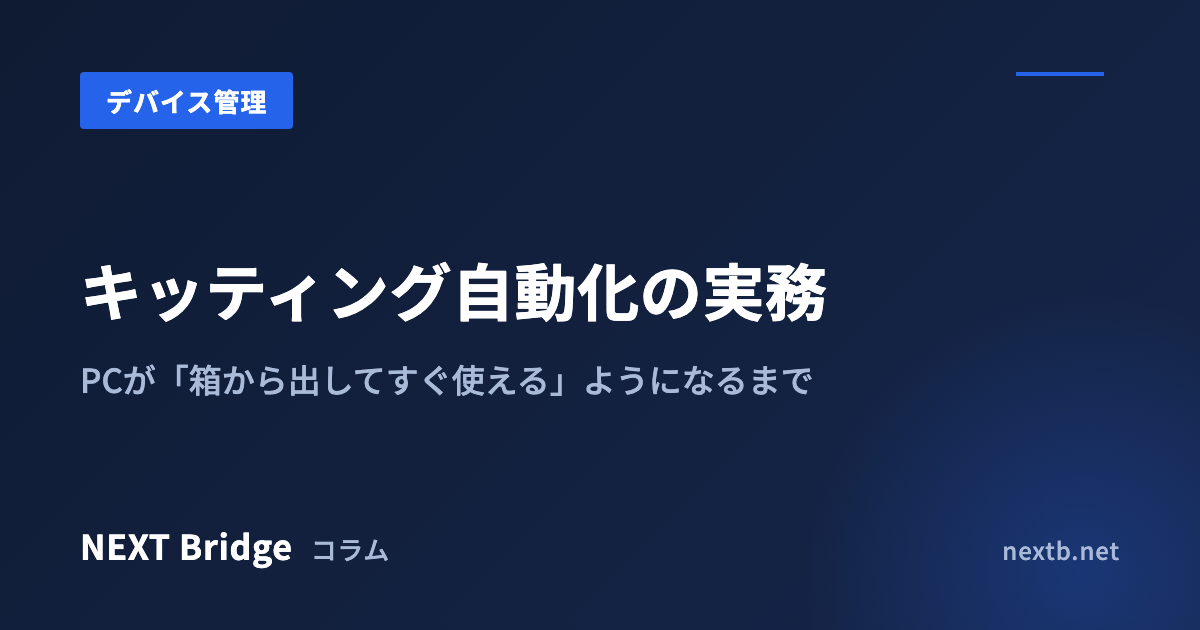
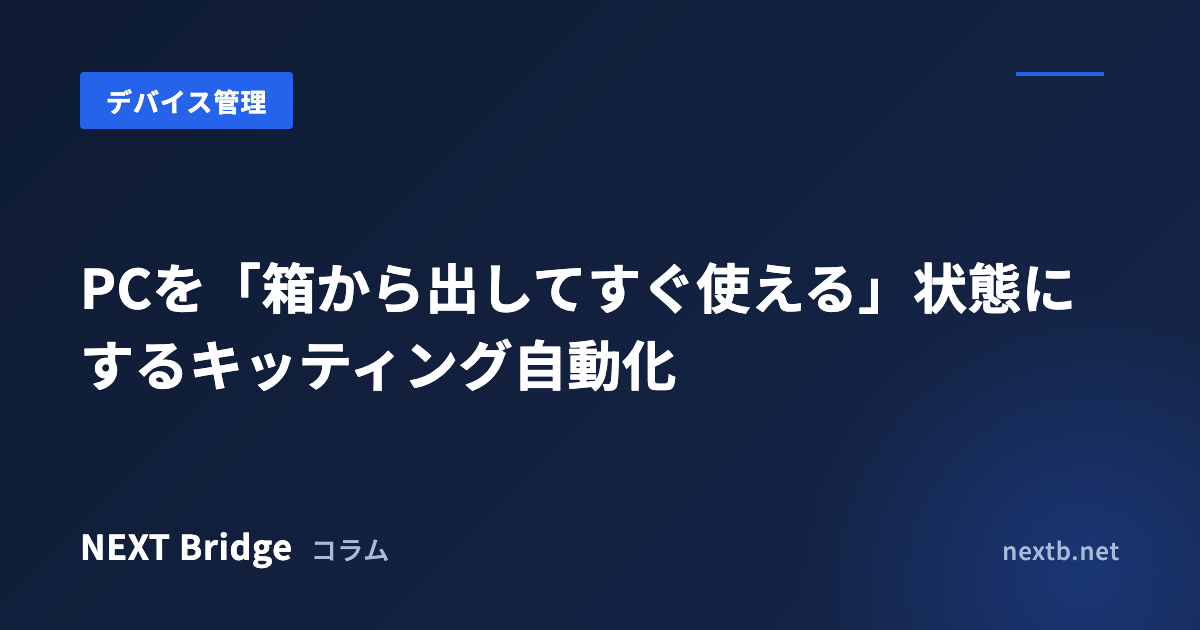
キッティング自動化コラムを新ライティング規範でですます調にリライト
japanese-tech-writing / cognitive-rhythm-writing スキルを使い、箇条書き
中心の実務解説スタイルから段落中心の読み物スタイルへ全面書き直し。企業
サイトのコラムのため文体はですます調とし、CLAUDE.md にもその旨を明記
（スキル例文のだ・である調は技法の例示であり文体指定ではない、と注記）。
タイトル変更に伴いOG画像も再生成。

Changed region(s): [[0.0617, 0.3921, 0.8942, 0.5127], [0.0617, 0.5429, 0.6783, 0.6333]]

diff --git a/src/content/articles/kitting-automation.md b/src/content/articles/kitting-automation.md
@@ -1,78 +1,122 @@
 ---
-title: キッティング自動化の実務 — PCが「箱から出してすぐ使える」ようになるまで
+title: PCを「箱から出してすぐ使える」状態にするキッティング自動化
 description: 入社のたびに情シスがPCを開梱して手作業でセットアップする運用は、Windows AutopilotやApple Business Managerで自動化できます。仕組みの全体像、必要な前提条件、導入の進め方、つまずきやすいポイントまで、中小企業の導入を支援してきた経験から実務目線で解説します。
 pubDate: 2026-07-12
 category: デバイス管理
 ---
 
-## はじめに
+「入社が続くと、情シスの仕事がキッティングで埋まってしまう」。
+デバイス管理のご相談で、最初に語られることが多い悩みです。
 
-「入社が続くと、情シスの仕事がキッティングで埋まってしまう」。デバイス管理のご相談で、最初に出てくることが多い悩みです。
+1台あたり2〜3時間。
+OSの初期設定、アカウント作成、Wi-Fi設定、業務アプリのインストール、セキュリティソフトの導入など、手作業で進める工程は多いです。
+手順書はありますが、担当者が違うと設定は微妙に違ってきます。
+入社が重なる月は、この作業だけでほかの仕事が止まります。
 
-1台あたり2〜3時間かけて、OSの初期設定、アカウント作成、Wi-Fi設定、業務アプリのインストール、セキュリティソフトの導入……と手作業で進める。手順書はあるけれど属人化していて、担当者が違うと設定が微妙に違う。入社ラッシュの月は他の仕事が止まる。この状態は、仕組みを入れることでほぼ解消できます。
+対策としてまず思い浮かぶのは、キッティングを自動化するツールの導入でしょう。
+たしかにツールは要ります。
+しかし実際に導入を支援していると、時間を食うのはツールの設定よりも、その手前の下準備であることのほうが多いです。
+何を先に整えておくかで、導入後の運用がどれだけ楽になるかが大きく左右されます。
 
-この記事では、「PCを箱から出して、電源を入れてサインインすると、設定とアプリが自動で降ってくる」状態をつくる仕組みと、そこに至る導入手順を簡単に解説します。
+箱から出して電源を入れ、サインインするだけで設定とアプリが揃います。
+そこに至るには、何を、どの順番で整えればよいのでしょうか。
 
 ## 自動キッティングの仕組み
 
-自動キッティングは、大きく2つの要素の組み合わせで実現します。
+自動キッティングは、大きく2つの仕組みの組み合わせで成り立ちます。
 
-- **購入したPCを「会社の管理対象」として登録する仕組み**
-  - Windows なら Windows Autopilot、Mac なら Apple Business Manager（最近Apple Businessになりましたね）の自動デバイス登録が該当します
-  - 販売店経由で購入した端末が、開梱前から会社のテナントに紐付いている状態をつくります
-- **初回起動時に設定とアプリを配信する仕組み（MDM）**
-  - Windows は Microsoft Intune、Mac は Jamf Pro が代表的です
-  - ユーザーが初期セットアップを開始すると、MDMが設定プロファイルとアプリを自動適用します
+1つは、購入したPCを「会社の管理対象」として登録する仕組みです。
+Windowsなら**Windows Autopilot**、Macなら**Apple Business Manager**（最近「Apple Business」に呼称が変わった）の自動デバイス登録がこれにあたります。
+対応した販売店から購入した端末は、開梱前から会社のテナントに紐づいた状態になります。
 
-この2つがつながると、情シスがPCに触れないまま、ユーザーの手元で初期設定が完了します。発送も販売店からユーザーの自宅や拠点へ直送でき、リモートワークの入社対応が一気に楽になります。
+もう1つは、初回起動時に設定とアプリを配信する仕組みで、一般に**MDM**と呼ばれます。
+Windowsなら**Microsoft Intune**、Macなら**Jamf Pro**が代表的な製品です。
+ユーザーが初期セットアップを始めると、MDMが設定プロファイルとアプリを自動で適用します。
+
+登録とMDMがつながれば、情シスがPCに触れないまま、ユーザーの手元で初期設定が終わります。
+端末が最初にネットワークへつながったタイミングで、登録情報をもとにMDMへの割り当てが働き、設定とアプリの配信が始まる仕組みだからです。
+
+発送も販売店からユーザーの自宅や拠点へ直送できるため、リモートワークでの入社対応が一気に楽になります。
 
 ## 導入の前提条件
 
-仕組み自体より、前提を揃える方が時間がかかることが多いです。着手前に次の4点を確認してください。
+仕組み自体よりも、前提を揃える作業のほうが時間はかかりやすいです。
+着手前に、次の4点を確認しておきます。
 
-- **ID基盤**: Microsoft Entra ID（旧Azure AD）または相当のクラウドID基盤があること。オンプレADのみの場合は、先にハイブリッド構成かクラウド移行の設計が必要です
-- **ライセンス**: Intune を含むライセンス（Microsoft 365 Business Premium や EMS E3 など）。Mac で Jamf Pro を使う場合は別途そちらを契約する必要があります。
-- **購入経路**: Autopilot / ABM への自動登録は、対応した販売店・リセラー経由での購入が前提です。家電量販店での都度購入は登録が手作業になります
-- **既存端末の扱い**: すでに配布済みの端末は自動登録の対象外なので、手動登録するか、次回リプレイスまで併存させるかの方針を決めておきます(なお、昔から代理店で購入していてABMにだけは登録されている、という場合はコマンド実行で既存端末も自動登録が可能です)
+まず**ID基盤**です。
+**Microsoft Entra ID**（旧Azure AD）、または相当のクラウドID基盤が要る、というだけなら準備は簡単に思えます。
+しかしオンプレミスのActive Directoryのみで運用している場合は、話が変わります。
+先にハイブリッド構成かクラウド移行の設計から着手することになり、この検討だけでまとまった時間がかかることもあります。
+
+次に**ライセンス**です。
+Intuneを含むライセンス、たとえば**Microsoft 365 Business Premium**や**EMS E3**などが必要で、MacでJamf Proを使う場合は別途その契約が要ります。
+
+3点目は**購入経路**です。
+AutopilotやABMへの自動登録は、対応した販売店やリセラー経由での購入が前提になります。
+家電量販店でそのつど購入した端末は、登録が手作業になってしまいます。
+
+最後に、**既存端末の扱い**を決めておきます。
+すでに配布済みの端末は自動登録の対象外なので、手動で登録するか、次のリプレイスまで併存させるか方針を決めます。
+なお、以前から代理店経由で購入していてABMにはすでに登録済みという場合は、コマンド実行で既存端末も自動登録の対象に加えられます。
 
 ## 導入の進め方
 
-ご支援するときは、おおむね次の順序で進めています。
+5段階と聞くと身構えるかもしれませんが、実際に支援する際は、おおむね次の順序で進めています。
 
-- **ステップ1: 設計**
-  - 標準アプリのリスト、Wi-FiやVPNなどの設定項目、セキュリティ基準（ディスク暗号化・画面ロック等）を確定します
-  - 「誰でも同じ状態のPCになる」ためのマスタ定義づくりで、ここの精度が後の運用を決めます
-- **ステップ2: MDMの構成**
-  - Intune / Jamf に設定プロファイルとアプリ配信を構成し、テスト端末で検証します
-- **ステップ3: 購入経路の整備**
-  - 販売店と Autopilot / ABM の登録契約を結び、以後の購入端末が自動でテナントに載るようにします
-- **ステップ4: パイロット運用**
-  - 直近の入社者数名で実際に「直送 → 本人開梱 → サインイン」を試し、手順の穴を潰します
-- **ステップ5: 標準化**
-  - 入社フローに組み込み、手作業キッティングを廃止します
+1つ目の設計段階では、標準アプリのリスト、Wi-FiやVPNなどの設定項目、ディスク暗号化や画面ロックといったセキュリティ基準を確定します。
+「誰がセットアップしても同じ状態のPCになる」ためのマスタ定義を作る工程であり、ここでの精度が後の運用を左右します。
+
+2つ目は、IntuneやJamfに設定プロファイルとアプリ配信を構成し、テスト端末で検証する工程です。
+
+3つ目は、販売店とAutopilot / ABMの登録契約を結び、以後に購入する端末が自動でテナントに載るよう購入経路を整える工程です。
+
+4つ目は、直近の入社者数名で「直送、本人が開梱、サインイン」を実際に試すパイロット運用です。
+ここで手順の穴を潰しておきます。
+
+5つ目は、最後に入社フローへ組み込み、手作業でのキッティングを廃止します。
 
 ## つまずきやすいポイント
 
-- **アプリの配信形式**
- - 社内で使うアプリの中に、サイレントインストールに対応しないものが混ざっていることがあります。
- - 事前に全アプリの配信可否を検証しておき、非対応のアプリは手動でのインストールにしましょう。
- - 再パッケージ化やスクリプトで工夫して無理やり自動化するのはあまりおすすめしません。
-- **回線品質**
- - 初回セットアップで数GBのダウンロードが発生することもあります。自宅回線で行う前提なら、所要時間の目安をユーザーに伝えておくとサポート問い合わせが減ります
- - Officeのインストールなどサイズが大きいアプリは、デスクトップが表示されてからユーザーにセルフでインストールを実行してもらうという分け方も効果的です。
- - その際はIntuneのポータルサイトアプリや、Jamf ProのSelf Serviceなどを使います。
-- **例外端末の線引き**
- - 開発用の特殊環境や共有端末など、標準構成に乗らない端末を無理に押し込むと設計が複雑になることがあります。
- - 例外は例外としてMDM対象外として管理するという切り分けも検討してみてください。
-- **「登録しただけ」で止まる**
- - Autopilot / ABM に登録しても、MDM側の構成が薄いと結局手作業が残ります。
- - 設定とアプリ配信まで作り込んで初めて効果が出ます。
+導入支援の現場でよくつまずく点が、いくつかあります。
 
-## おわりに
+まず、アプリの配信形式です。
+社内で使っているアプリの中には、サイレントインストールに対応しないものが混ざっていることがあります。
+事前に全アプリの配信可否を検証しておき、非対応のアプリは手動インストールに回すのが無難です。
+再パッケージ化やスクリプトで無理に自動化するのは、あまりおすすめしません。
 
-キッティング自動化は、単なる時短ではなく「誰がセットアップしても同じセキュリティ基準のPCになる」という統制の仕組みでもあります。台数が少ないうちに導入しておくと、端末が増えても運用が破綻しません。
+次に、回線品質です。
+初回セットアップでは数GBのダウンロードが走ることもあります。
+自宅回線が前提なら、所要時間の目安を先にユーザーへ伝えておくとサポート問い合わせが減ります。
 
-MacとWindowsが混在している環境でのMDM選定については、[別の記事](/articles/mac-windows-mdm/)で詳しく書いています。自社の環境でどこから手を付けるべきか相談したいという方は、[デバイス管理導入支援](/device-management/)のページをご覧ください。
+Officeのように容量の大きいアプリは、デスクトップが表示されたあとにセルフインストールしてもらうという分け方も効果的です。
+IntuneのポータルサイトアプリやJamf ProのSelf Serviceを使えばこれができます。
+
+3つ目は、例外端末の線引きです。
+開発用の特殊環境や共有端末など、標準構成に乗らない端末を無理やり押し込むと、設計そのものが複雑になることがあります。
+例外は例外としてMDMの対象外に切り分ける、という判断もあります。
+無理に標準構成へ合わせ込むよりも、その端末だけ別の方法で管理したほうが、全体の設計をシンプルに保てることが多いです。
+
+そして、「登録しただけ」で止まるケースもあります。
+AutopilotやABMへの登録は、自動化の入り口にすぎません。
+MDM側の構成が薄いままだと、結局は手作業が残ってしまいます。
+設定とアプリ配信まで作り込んで初めて、効果が出ます。
+
+## 自動キッティングが変えるもの
+
+標準的な構成の端末であれば、設計から標準化までを終えたころには、箱から出してサインインするだけの状態に近づきます。
+しかし自動キッティングが本当に効いてくるのは、時間の節約だけではありません。
+入社のたびにかかっていた2〜3時間は、その大半がなくなります。
+それ以上に大きいのが、「誰がセットアップしても同じセキュリティ基準のPCになる」という統制です。
+
+手作業に依存したキッティングでは、担当者ごとに設定が微妙にばらつきます。
+そのばらつきは、そのままセキュリティの穴になりえます。
+仕組みで統一すれば、このばらつきは大きく減ります。
+
+台数が少ないうちに導入しておけば、端末が増えても運用は破綻しません。
+台数が増えてから着手すると、それだけ移行の負荷は大きくなります。
+
+MacとWindowsが混在する環境でのMDM選定は、[別の記事](/articles/mac-windows-mdm/)で詳しく書きました。
+自社の環境でどこから手を付けるべきか相談したい場合は、[デバイス管理導入支援](/device-management/)のページを参照してください。
 
 ### 参考リンク
 

diff --git a/CLAUDE.md b/CLAUDE.md
@@ -49,6 +49,9 @@
 - **両スキルとも全面適用する**（手順・前提条件等の構造的箇条書きも段落中心の書き方へ寄せる。ユーザー決定 2026-07-17）
   - 既存コラム（箇条書き中心の実務解説スタイル）とは文体が変わる。承知の上での判断であり、既存記事の一斉書き直しはしない
   - 適用は新規執筆・推敲の対象範囲のみ（`src/content/articles/` の既存記事に自動で遡及しない）
+- **文体は「ですます調」で書く**（企業サイトのコラムのため。ユーザー決定 2026-07-17）
+  - 両スキルの例文は「だ・である調」で書かれているが、これは規範が示す構造・技法（断定と逡巡の交替、緊張の設計、駄文の判別等）の例示であり、文体そのものの指定ではない
+  - 適用時は、例文が示す技法を「ですます調」に置き換えて使う（例: 断定「〜である」→「〜です」、逡巡「〜だろうか」→「〜でしょうか」）
 
 ## デザイン・素材の規約
 
